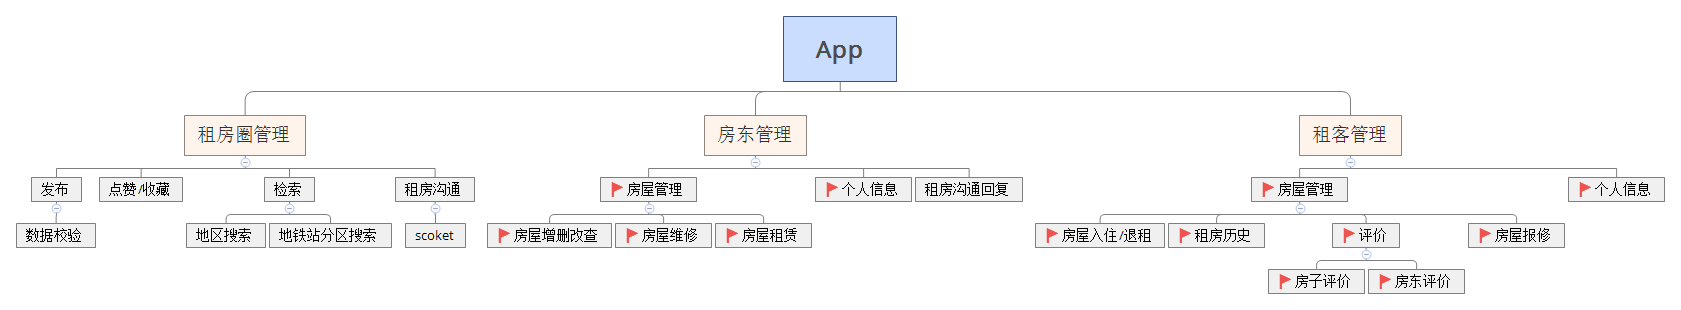
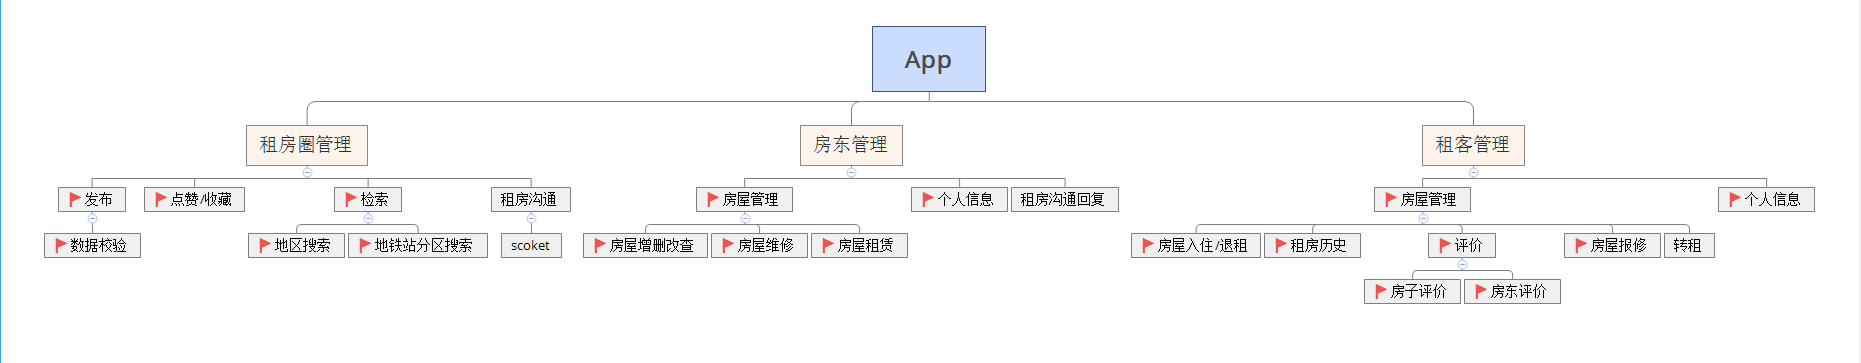
添加文档

Changed region(s): [[0.0, 0.029, 0.9899, 0.9581]]

diff --git a/docs/.vitepress/config.js b/docs/.vitepress/config.js
@@ -30,8 +30,8 @@ module.exports = {
       { text: '概览', link: '/overview/' },
       { text: '开发', link: '/develop/environment/' },
       { text: '部署', link: '/arrange/' },
-      { text: 'Github', link: 'https://github.com/vuejs/vitepress' },
-      { text: 'Gitee', link: 'https://github.com/vuejs/vitepress' },
+      { text: 'Github', link: 'https://github.com/LiuXIn011/rightHouse' },
+      { text: 'Gitee', link: 'https://gitee.com/liuxin0128/right-house' },
     ],
     sidebar: {
       '/': [
@@ -67,7 +67,7 @@ module.exports = {
         },
         {
           text: '开发',
-          // link: '/develop/environment/',
+          link: '/develop/',
           items: [
             {
               text: '开发环境',

diff --git a/docs/overview/technologyStack/service.md b/docs/overview/technologyStack/service.md
@@ -4,15 +4,20 @@ title: 服务端
 ## 概述
 服务端使用[Egg](https://www.eggjs.org/)构建，Egg 继承于 [Koa](https://github.com/koajs/koa)；Egg规范了nodejs开发，使用MVC开发模式，奉行『约定优于配置』，团队协作成本低。使得nodejs代码结构不再千奇百怪。  
 
+![koa](https://zos.alipayobjects.com/rmsportal/JFKAMfmPehWfhBPdCjrw.svg)
+
 [Egg社区](https://github.com/search?q=topic%3Aegg-plugin&type=Repositories) 还算完备，一些常用的插件都包含在内。由于继承了Koa的原因，在社区插件方面也完美继承，不过在插件使用方面，Egg的效率要高于Koa。  
 
 以下介绍部分核心组件的使用方式，其他常用egg插件较为简单，不一一介绍。
 
 ## 数据库
 使用[egg-sequelize](https://github.com/eggjs/egg-sequelize)管理Mysql数据库  
+
+![sequelize](https://www.sequelize.cn/assets/images/logo-small-844fb9182c0fbf41931de2246fa9c496.png)
+
 [Sequelize](https://sequelize.org/)是一个基于 promise 的 Node.js ORM, 目前支持 Postgres, MySQL, MariaDB, SQLite 以及 Microsoft SQL Server. 它具有强大的事务支持, 关联关系, 预读和延迟加载,读取复制等功能。  
 egg-sequelize是对Sequelize的二次继承，约定egg插件风格来使用sequelize。由于版本迭代的问题，egg-sequelize的使用和原版存在一定的差异，例如在自动生成model的功能上，两个插件有截然不同的结果，而且是各有所缺。所以在此建议：不要使用自动生成model的方法，采用手工编写model，然后自动生成数据表的方式。  
-在手工编写好model后，在服务端代码FS-server/app/router.js,打开注释掉的app.model.sync();方法，即可自动创建数据表。
+在手工编写好model后，在服务端代码FS-server/app/router.js,打开注释掉的app.model.sync();方法，即可自动创建数据表。添加参数{ force: true }，即可重置数据库（数据会重置，表会清空。）。
 ```javascript
 module.exports = async app => {
   if (app.config.env === 'local') {
@@ -23,10 +28,15 @@ module.exports = async app => {
   
 ```
 ## 对象存储OSS
-使用[MinlO](https://www.minio.org.cn/)来管理文件存储。MinlO是一个基于Apache License v2.0开源协议的对象存储服务。它兼容亚马逊S3云存储服务接口，非常适合于存储大容量非结构化的数据。例如图片、视频、日志文件、备份数据和容器/虚拟机镜像等,而一个对象文件可以是任意大小,从几kb到最大5T不等。MinlO是一个非常轻量的服务 可以很简单的和其他应用的结合。  
+使用[MinlO](https://www.minio.org.cn/)来管理文件存储。  
+
+![MinlO](https://www.minio.org.cn/resources/img/logo.svg)
+
+MinlO是一个基于Apache License v2.0开源协议的对象存储服务。它兼容亚马逊S3云存储服务接口，非常适合于存储大容量非结构化的数据。例如图片、视频、日志文件、备份数据和容器/虚拟机镜像等,而一个对象文件可以是任意大小,从几kb到最大5T不等。MinlO是一个非常轻量的服务 可以很简单的和其他应用的结合。  
 MinlO部署比较简单，当然你也可以购买商业的云服务OSS来使用，但是作者崇尚自己动手丰衣足食（穷）。
 
 ## 缓存redis
+![redis](https://gimg2.baidu.com/image_search/src=http%3A%2F%2Fsafe-img.xhscdn.com%2Fbw1%2F9821be0d-e714-4f98-a350-d7bd98a8659a%3FimageView2%2F2%2Fw%2F1080%2Fformat%2Fjpg&refer=http%3A%2F%2Fsafe-img.xhscdn.com&app=2002&size=f9999,10000&q=a80&n=0&g=0n&fmt=auto?sec=1686810765&t=9b772f5438a26de7b9764397588a6ecb)
 [redis](https://redis.io/)是一个开源的使用ANSI C语言编写、支持网络、可基于内存亦可持久化的日志型、Key-Value数据库，并提供多种语言的API。  
 egg使用redis可以使用[egg-redis](https://github.com/eggjs/egg-redis)  
 将小程序开放平台的token和用户体系生成的token保存在redis中是一个很好的选择，

diff --git a/docs/develop/environment/index.md b/docs/develop/environment/index.md
@@ -15,7 +15,7 @@ title: 开发环境
 
 mysql安装完成后新建一个数据库，数据库名为right_house_db。
 ![新建数据库](/mysql.png)  
-在服务端代码FS-server/app/router.js,打开注释掉的app.model.sync();方法，即可自动创建数据表。
+在服务端代码FS-server/app/router.js,打开注释掉的app.model.sync();方法，即可自动创建数据表。添加参数{ force: true }，即可重置数据库（数据会重置，表会清空。）。
 ```javascript
 module.exports = async app => {
   if (app.config.env === 'local') {
@@ -24,6 +24,22 @@ module.exports = async app => {
   }
 };
 ```
+## 数据库表结构
+|  表名   | 备注  | 
+|  ----  | ----  |
+| admin_user  | 后台管理系统管理员表 |
+| comments  | 评论表 |
+| house  | 房屋表 |
+| house_link_tenant  | 房屋与租客的关联表 |
+| house_maintenance  | 房屋报修表 |
+| landlord_link_tenant  | 房东与租客的关联表 |
+| landlord_user  | 房东表 |
+| lease_application  | 租房申请表 |
+| rental_market  | 租房市场表 |
+| rental_market_link_tenant  | 租客收藏租房市场表 |
+| tenants_user  | 租客表 |
+
+具体字段名和表关联关系详见：[/RH-server/app/model](https://gitee.com/liuxin0128/right-house/tree/master/RH-server/app/model)
 
 ## 缓存
 缓存使用redis，安装时需要留意密码。  
@@ -31,6 +47,14 @@ module.exports = async app => {
 [推荐一个博主的安装教程](https://www.redis.com.cn/redis-installation.html)  
 ## 对象存储
 对象存储使用minio，也可自行购买阿里云等服务商的oss服务器。
+
+```shell
+PS> Invoke-WebRequest -Uri "https://dl.minio.org.cn/server/minio/release/windows-amd64/minio.exe" -OutFile "C:\minio.exe"
+PS> setx MINIO_ROOT_USER admin
+PS> setx MINIO_ROOT_PASSWORD password
+PS> C:\minio.exe server F:\Data --console-address ":9001"
+```
+
 #### 安装完成后，需要新建一个文件存储容器，名称为：filebucket
 ## 推荐的vscode开发插件
 [Redis](https://marketplace.visualstudio.com/items?itemName=cweijan.vscode-redis-client)插件可以在vscode内管理数据库和redis

diff --git a/docs/overview/needs/index.md b/docs/overview/needs/index.md
@@ -2,7 +2,7 @@
 title: 需要准备的
 ---
 ## 服务器
-一台有外网ip的服务器。
+一台有外网ip的服务器。你可以选择去[阿里云](https://www.aliyun.com/product/ecs?spm=5176.28055625.J_3207526240.147.e939154a0sNj4E&scm=20140722.M_4691652._.V_1)或其他云服务商租赁一台服务器。或者搭建自己的服务器，使用内网穿透工具将内网ip映射到外网。
 ## 域名
 购买一个域名。获取ssl证书支持https。然后解析两个二级域名，一个用于服务端访问，一个用于后台管理系统访问。
 ## 微信小程序id
@@ -13,6 +13,7 @@ title: 需要准备的
 uni-app比较随意，直接注册账户即可获取。
 ![uni-app-id](/uni-app-id.png)
 ## 阿里云短信服务（非必须）
-购买[阿里云短信服务](https://www.aliyun.com/product/sms?spm=5176.28055625.J_3207526240.80.e939154ahCLHmB)，注册短信SignName，注册需要的短信模板，获取阿里云accessKey，用于验证码发送、交租提醒、维修提醒、入住提醒等功能。详情参见[服务端配置](/develop/options/)。
+购买[阿里云短信服务](https://www.aliyun.com/product/sms?spm=5176.28055625.J_3207526240.80.e939154ahCLHmB)，注册短信SignName，注册需要的短信模板，获取阿里云accessKey，用于验证码发送、交租提醒、维修提醒、入住提醒等功能。详情参见[服务端配置](/develop/options/)。  
+如果你不配置这些，将不会发送短信，也不会影响到业务。
 ## 开发工具
 [vscode](https://code.visualstudio.com/)、[微信开发者工具](https://open.weixin.qq.com/)、[HbuilderX](https://www.dcloud.io/hbuilderx.html)

diff --git a/docs/develop/index.md b/docs/develop/index.md
@@ -1,0 +1,28 @@
+---
+title: 开发
+---
+
+#### 本项目遵守[MIT](https://baike.baidu.com/item/MIT%E8%AE%B8%E5%8F%AF%E8%AF%81/6671281?fromtitle=X%2FMIT%E8%AE%B8%E5%8F%AF%E5%8D%8F%E8%AE%AE&fromid=10136122)开源协议
+
+
+MIT License
+
+Copyright (c) 2023 LiuXIn
+
+Permission is hereby granted, free of charge, to any person obtaining a copy
+of this software and associated documentation files (the "Software"), to deal
+in the Software without restriction, including without limitation the rights
+to use, copy, modify, merge, publish, distribute, sublicense, and/or sell
+copies of the Software, and to permit persons to whom the Software is
+furnished to do so, subject to the following conditions:
+
+The above copyright notice and this permission notice shall be included in all
+copies or substantial portions of the Software.
+
+THE SOFTWARE IS PROVIDED "AS IS", WITHOUT WARRANTY OF ANY KIND, EXPRESS OR
+IMPLIED, INCLUDING BUT NOT LIMITED TO THE WARRANTIES OF MERCHANTABILITY,
+FITNESS FOR A PARTICULAR PURPOSE AND NONINFRINGEMENT. IN NO EVENT SHALL THE
+AUTHORS OR COPYRIGHT HOLDERS BE LIABLE FOR ANY CLAIM, DAMAGES OR OTHER
+LIABILITY, WHETHER IN AN ACTION OF CONTRACT, TORT OR OTHERWISE, ARISING FROM,
+OUT OF OR IN CONNECTION WITH THE SOFTWARE OR THE USE OR OTHER DEALINGS IN THE
+SOFTWARE.

diff --git a/docs/overview/operate/index.md b/docs/overview/operate/index.md
@@ -3,5 +3,22 @@ title: 操作逻辑
 ---
 ## 操作逻辑图
 ![An image](/App.png)
+小红旗标志为已完成的功能
 
+## 房屋管理
+<video style="width:375px;height:667px;margin:0 auto;background:#000;" controls src="https://cdn.cnbj1.fds.api.mi-img.com/product-images/xiaomi13pro5r9luc/index/video-1.mp4"></video>
+
+## 租房市场
+<video style="width:375px;height:667px;margin:0 auto;background:#000;" controls src="https://cdn.cnbj1.fds.api.mi-img.com/product-images/xiaomi13pro5r9luc/index/video-1.mp4"></video>
+
+## 租客入住
+<video style="width:375px;height:667px;margin:0 auto;background:#000;" controls src="https://cdn.cnbj1.fds.api.mi-img.com/product-images/xiaomi13pro5r9luc/index/video-1.mp4"></video>
+
+## 租客管理
+<video style="width:375px;height:667px;margin:0 auto;background:#000;" controls src="https://cdn.cnbj1.fds.api.mi-img.com/product-images/xiaomi13pro5r9luc/index/video-1.mp4"></video>
+
+## 房屋操作
+<video style="width:375px;height:667px;margin:0 auto;background:#000;" controls src="https://cdn.cnbj1.fds.api.mi-img.com/product-images/xiaomi13pro5r9luc/index/video-1.mp4"></video>
+
+## 后台管理系统
 <video style="width:100%;" controls src="https://cdn.cnbj1.fds.api.mi-img.com/product-images/xiaomi13pro5r9luc/index/video-1.mp4"></video>

diff --git a/docs/arrange/build/index.md b/docs/arrange/build/index.md
@@ -3,7 +3,7 @@ title: 打包部署
 ---
 部署前请确保已经完整阅读过[配置](/develop/options/)模块，并且已经将相关配置更改到生产环境地址。
 ## 服务端部署
-首先在服务端代码FS-server/app/router.js,打开注释掉的app.model.sync();方法，即可自动创建数据表。（数据库是需要手动创建的）
+首先在服务端代码FS-server/app/router.js,打开注释掉的app.model.sync();方法，即可自动创建数据表（数据库是需要手动创建的）。添加参数{ force: true }，即可重置数据库（数据会重置，表会清空。）。
 ```javascript
 module.exports = async app => {
   if (app.config.env === 'local') {

diff --git a/docs/overview/index.md b/docs/overview/index.md
@@ -10,4 +10,4 @@ title: 简介
 
 客户端基于uni-app可发布到iOS、Android、Web（响应式）、以及各种小程序（微信/支付宝/百度/头条/飞书/QQ/快手/钉钉/淘宝）、快应用等多个平台。
 
-如果你觉得此项目具有学习价值，请点一个star。如果你觉得此项目具有商业价值，V我￥500W，我们上船，启航！
+如果你觉得此项目具有学习价值，请点一个star。如果你觉得此项目具有商业价值，V我$500W，我们上船，启航！😄

diff --git a/docs/overview/expectation/index.md b/docs/overview/expectation/index.md
@@ -7,7 +7,7 @@ title: 后续规划
 ## 支付接入
 接入支付宝、微信支付能力，实现：在线交租、在线催收、自动交租等功能。
 ## 即时通讯IM
-接入soket，实现房东=>租客在线沟通，在线询价，更好的保护隐私安全。
+接入soket，实现房东<=>租客在线沟通，在线询价，更好的保护隐私安全。
 ## 运营功能
 开发运营能力，包括但不限于：优惠券、房东激励、租客激励、新人礼包。
 ## 物料商城

diff --git a/docs/index.md b/docs/index.md
@@ -16,11 +16,11 @@ hero:
       text: 继续了解
       link: /overview/
     - theme: alt
-      text: github
-      link: https://github.com/vuejs/vitepress
+      text: GitHub
+      link: https://github.com/LiuXIn011/rightHouse
     - theme: alt
-      text: gitee
-      link: https://github.com/vuejs/vitepress
+      text: Gitee
+      link: https://gitee.com/liuxin0128/right-house
 
 features:
   - icon: 💯
